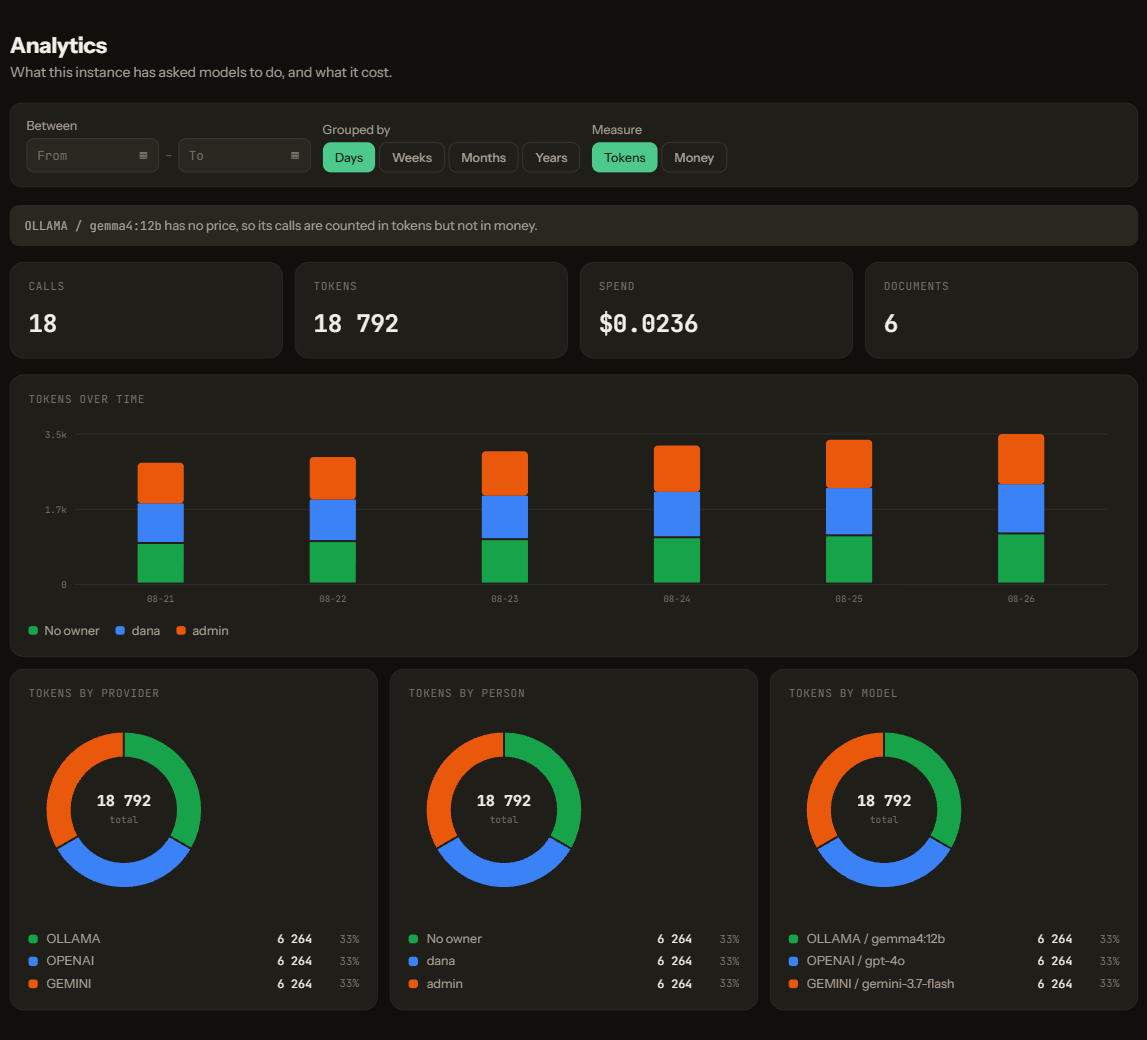
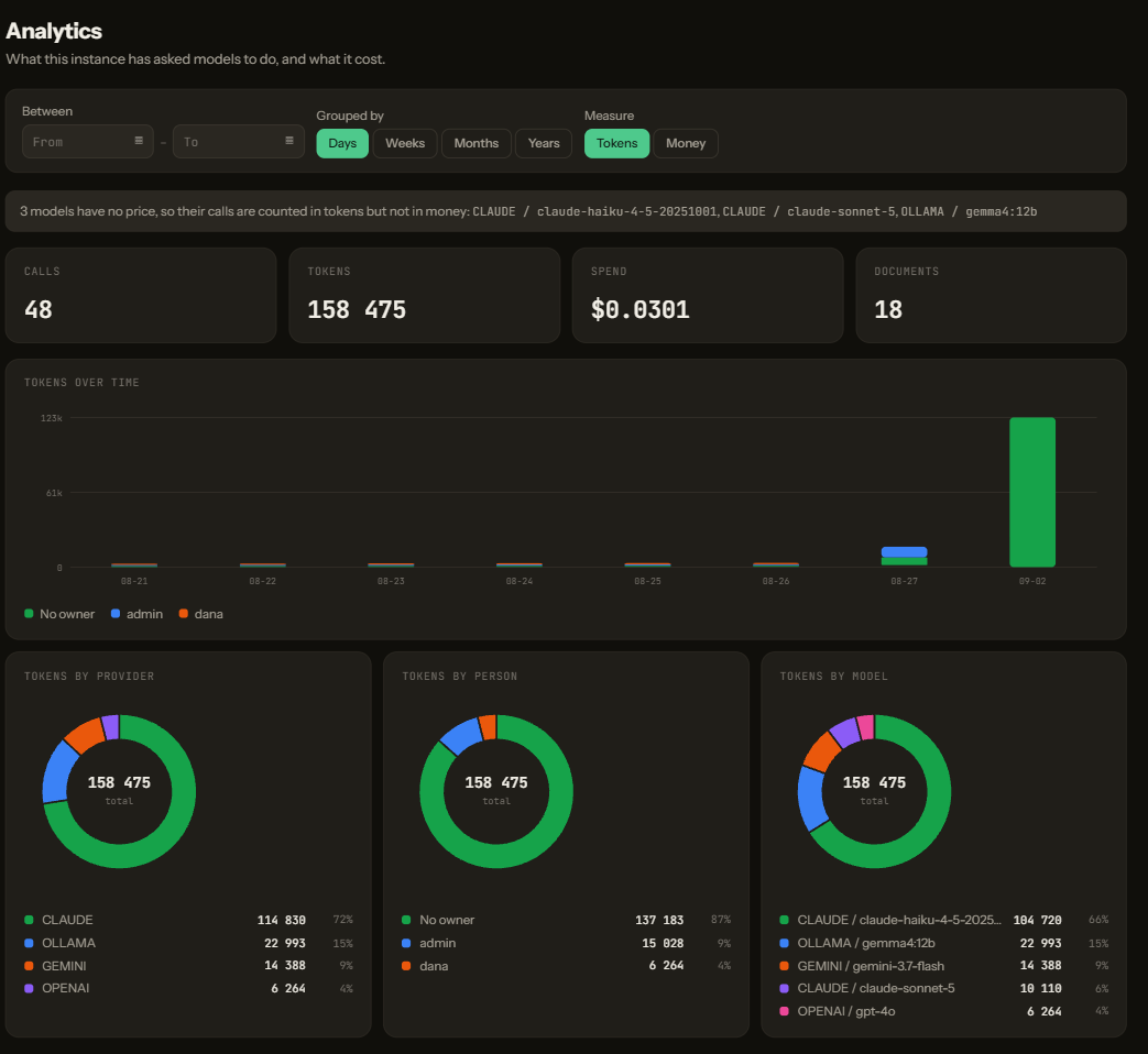
CI never built the thing the README tells people to run
Both jobs proved the code compiles and behaves; neither produced anything
somebody could start. The quick-start is `docker compose up --build`, and the
distance between "the tests pass" and "the image builds" is exactly where a
dependency change hides — which it did, silently, when Spring Boot 4 arrived with
new modules and moved artifacts. Every test stayed green and whether the image
still built was nobody's business until it was built by hand.

The third job builds it the way the README says to, then starts it against a
throwaway Postgres and checks it answers: the page a browser lands on, and the
call the browser makes first. Building is not starting, and starting is the claim
the quick-start actually makes.

The analytics and prices screenshots are retaken from an instance with real usage
on it — 48 calls across four providers, spend where a price exists and tokens
where none does. The previous pair showed a seeded set seven ways divided into
equal thirds, which read as fabricated because it was. The notice naming the
three unpriced models is in frame on purpose: it is the whole argument of that
screen.

diff --git a/README.md b/README.md
@@ -53,7 +53,7 @@ Two more screens, once an instance has been used for a while:
 - **Analytics** — what has been asked of the models and what it cost: tokens and money by provider,
   by model and by person, spend over time, and whether the runs themselves succeeded.
 
-![Analytics: tokens and spend by provider, model and person, with how the runs themselves went](docs/analytics.png)
+![Analytics: 48 calls and 158 475 tokens broken down by provider, by model and by person — with the three models nobody has priced named outright rather than counted as free](docs/analytics.png)
 
 ## What a run costs
 
